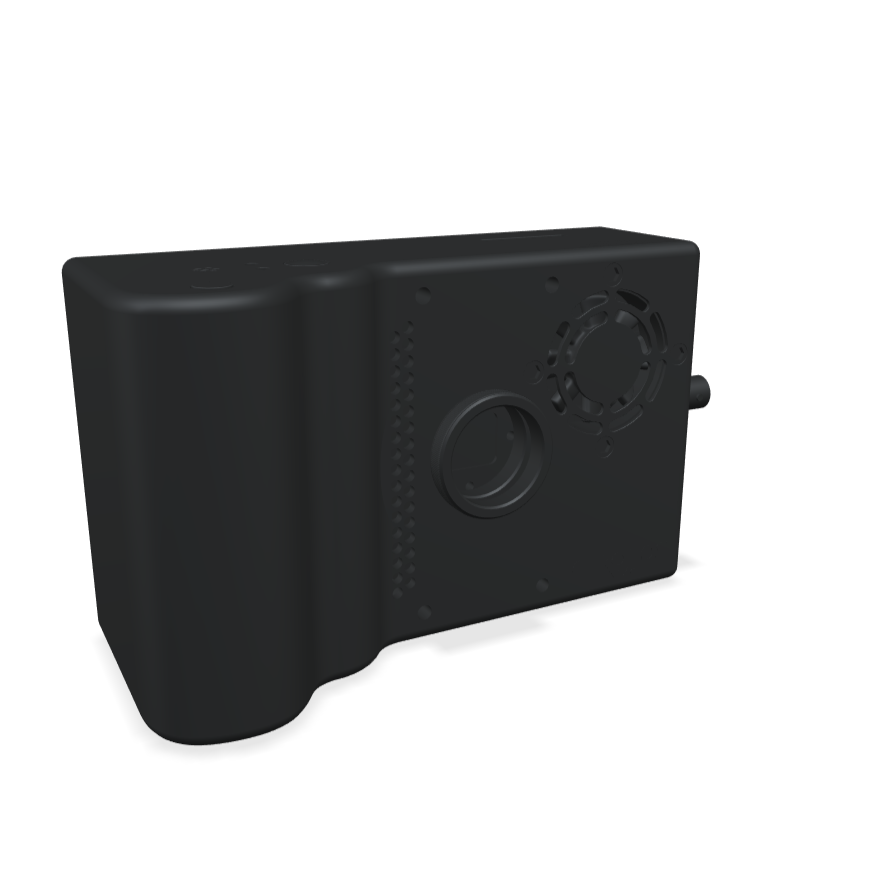
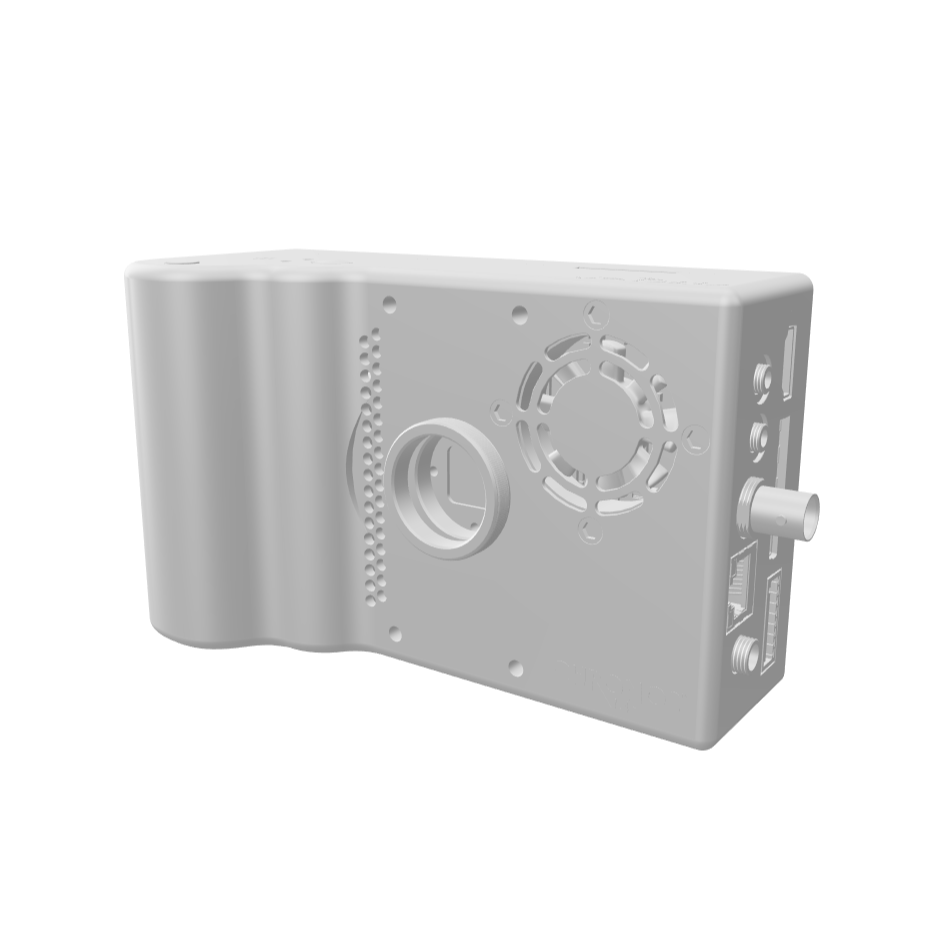
camera expore

diff --git a/TestBootStrap/chronos-1.4.html b/TestBootStrap/chronos-1.4.html
@@ -450,7 +450,7 @@
     <!--Start Order Section-->
     <section class="order scroll-start">
         <model-viewer reveal="interaction" src="3D-Model/Chronos_360.glb" poster="Images/Camera-3D.webp" auto-rotate
-            camera-controls alt="Camera-3D-Model" exposure=".07" shadow-intensity="1" shadow-softness=".7"
+            camera-controls alt="Camera-3D-Model" exposure="1" shadow-intensity="1" shadow-softness=".7"
             environment-image="/Images/studio_1.hdr">
 
             <div
@@ -516,6 +516,7 @@
                                 </label>
                             </div>
                         </form>
+
                         <!--If user clicks yes form-->
                         <form class="form was-validated px-5">
                             <div class="d-flex flex-column justify-content-center align-items-center w-100 h-100">
